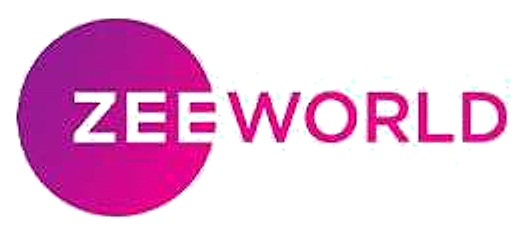
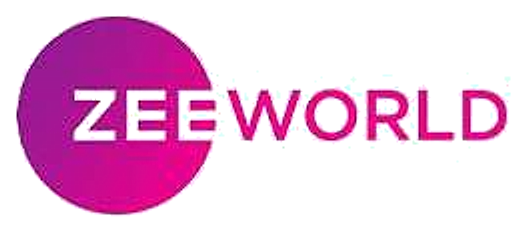
Luzon Media: full media partner roster, plus CNN
Adds the eleven networks, stations and titles from the "Our Notable
Media Partners" page of the company profile — AIT, Channels, The
Guardian, Nigeria Info FM, Silverbird TV, Soundcity, Cool FM, StarTimes,
Zee World, Zee TV and NTA — alongside CNN.

The partners section now separates clients (Nigerian Breweries) from
media partners, and the logos share a PartnerLogoTile that normalises
their very different aspect ratios the way PartnerTile does on
/partners. The section also gets a #partners anchor.

Logos were segmented out of the profile page by ink projection, had
their paper grain flattened to white, and were upscaled and sharpened.
CNN is rasterised from the public-domain Wikimedia SVG, so it stays
crisp at any size.

diff --git a/app/luzon-media/page.tsx b/app/luzon-media/page.tsx
@@ -137,15 +137,24 @@ const DEFINING_WORDS = [
   },
 ];
 
-const PARTNERS = [
-  {
-    name: "Nigerian Breweries Plc",
-    logo: "/luzon-media/partner-nigerian-breweries.png",
-  },
-  {
-    name: "Zee World",
-    logo: "/luzon-media/partner-zee-world.png",
-  },
+const CLIENTS = [
+  { name: "Nigerian Breweries Plc", logo: "/luzon-media/partner-nigerian-breweries.png" },
+];
+
+// The networks, stations and titles Luzon Media books airtime and space with.
+const MEDIA_PARTNERS = [
+  { name: "AIT — Africa Independent Television", logo: "/luzon-media/partner-ait.png" },
+  { name: "Channels Television", logo: "/luzon-media/partner-channels-tv.png" },
+  { name: "The Guardian", logo: "/luzon-media/partner-the-guardian.png" },
+  { name: "Nigeria Info FM", logo: "/luzon-media/partner-nigeria-info-fm.png" },
+  { name: "Silverbird Television", logo: "/luzon-media/partner-silverbird-tv.png" },
+  { name: "Soundcity", logo: "/luzon-media/partner-soundcity.png" },
+  { name: "Cool FM", logo: "/luzon-media/partner-cool-fm.png" },
+  { name: "StarTimes", logo: "/luzon-media/partner-startimes.png" },
+  { name: "CNN", logo: "/luzon-media/partner-cnn.png" },
+  { name: "Zee World", logo: "/luzon-media/partner-zee-world.png" },
+  { name: "Zee TV", logo: "/luzon-media/partner-zee-tv.png" },
+  { name: "NTA — Nigerian Television Authority", logo: "/luzon-media/partner-nta.png" },
 ];
 
 const ACCREDITATION = [
@@ -155,6 +164,31 @@ const ACCREDITATION = [
   { label: "Registered", value: "28 September 2023" },
   { label: "In the name of", value: "Odusanya Lucy Folasade" },
 ];
+
+/**
+ * Logo tile for a client or media partner.
+ *
+ * The logos come in wildly different aspect ratios (a tall Soundcity mark next
+ * to a very wide Guardian masthead), so each sits object-contained in a fixed
+ * frame — the same normalising trick PartnerTile uses on /partners. They all
+ * carry a white background of their own, so the tile is white in both themes.
+ */
+function PartnerLogoTile({ name, logo }: { name: string; logo: string }) {
+  return (
+    <div
+      title={name}
+      className="relative flex h-24 items-center justify-center overflow-hidden rounded-2xl border border-[var(--color-border)] bg-white shadow-sm sm:h-28"
+    >
+      <Image
+        src={logo}
+        alt={name}
+        fill
+        sizes="(max-width: 640px) 45vw, (max-width: 1280px) 22vw, 180px"
+        className="object-contain p-4"
+      />
+    </div>
+  );
+}
 
 export default function LuzonMediaPage() {
   return (
@@ -380,7 +414,10 @@ export default function LuzonMediaPage() {
       </section>
 
       {/* Partners ----------------------------------------------------------- */}
-      <section className="bg-[var(--color-bg-muted)] px-4 py-16 sm:px-[1.125rem]">
+      <section
+        id="partners"
+        className="scroll-mt-24 bg-[var(--color-bg-muted)] px-4 py-16 sm:px-[1.125rem]"
+      >
         <div className="mx-auto max-w-6xl">
           <AnimatedSection>
             <span className="inline-block h-1 w-10 rounded-full bg-[#12A5C6]" />
@@ -388,25 +425,29 @@ export default function LuzonMediaPage() {
               Clients &amp; media partners
             </h2>
             <p className="mt-3 max-w-2xl text-sm text-[var(--color-text-muted)] sm:text-base">
-              Brands and networks we plan, negotiate and place campaigns with.
+              Brands we work for, and the networks, stations and titles we plan,
+              negotiate and place campaigns with.
             </p>
           </AnimatedSection>
 
-          <AnimatedStagger className="mt-8 grid grid-cols-2 gap-4 sm:max-w-2xl sm:gap-5">
-            {PARTNERS.map((partner) => (
+          <h3 className="mt-10 text-xs font-semibold uppercase tracking-widest text-[var(--color-text-muted)]">
+            Clients
+          </h3>
+          <AnimatedStagger className="mt-4 grid grid-cols-2 gap-4 sm:max-w-xs">
+            {CLIENTS.map((client) => (
+              <AnimatedStaggerItem key={client.name}>
+                <PartnerLogoTile {...client} />
+              </AnimatedStaggerItem>
+            ))}
+          </AnimatedStagger>
+
+          <h3 className="mt-10 text-xs font-semibold uppercase tracking-widest text-[var(--color-text-muted)]">
+            Notable media partners
+          </h3>
+          <AnimatedStagger className="mt-4 grid grid-cols-2 gap-4 sm:grid-cols-3 lg:grid-cols-4 xl:grid-cols-6">
+            {MEDIA_PARTNERS.map((partner) => (
               <AnimatedStaggerItem key={partner.name}>
-                <div className="relative flex h-28 items-center justify-center overflow-hidden rounded-2xl border border-[var(--color-border)] bg-white p-6 shadow-sm sm:h-32">
-                  <Image
-                    src={partner.logo}
-                    alt={partner.name}
-                    fill
-                    sizes="(max-width: 640px) 45vw, 300px"
-                    className="object-contain p-5"
-                  />
-                </div>
-                <p className="mt-2 text-center text-xs text-[var(--color-text-muted)]">
-                  {partner.name}
-                </p>
+                <PartnerLogoTile {...partner} />
               </AnimatedStaggerItem>
             ))}
           </AnimatedStagger>
